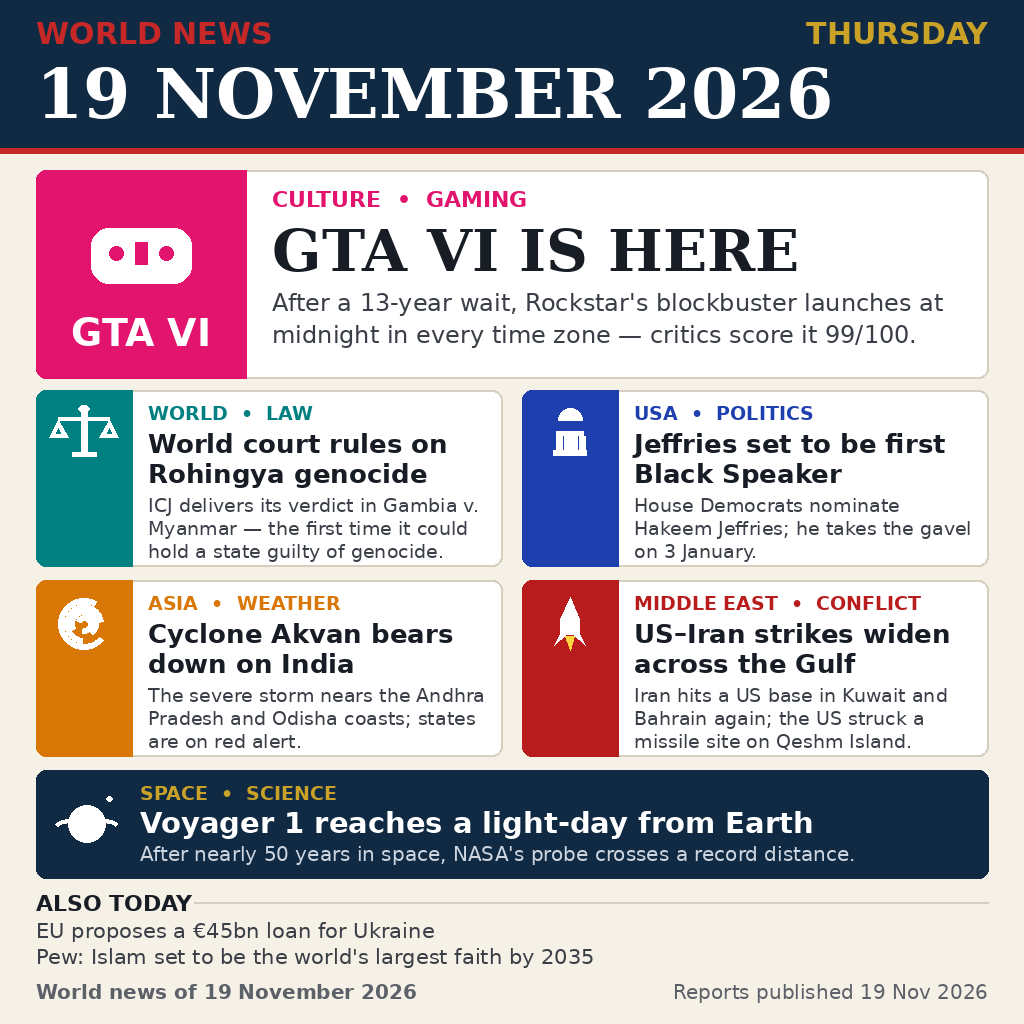
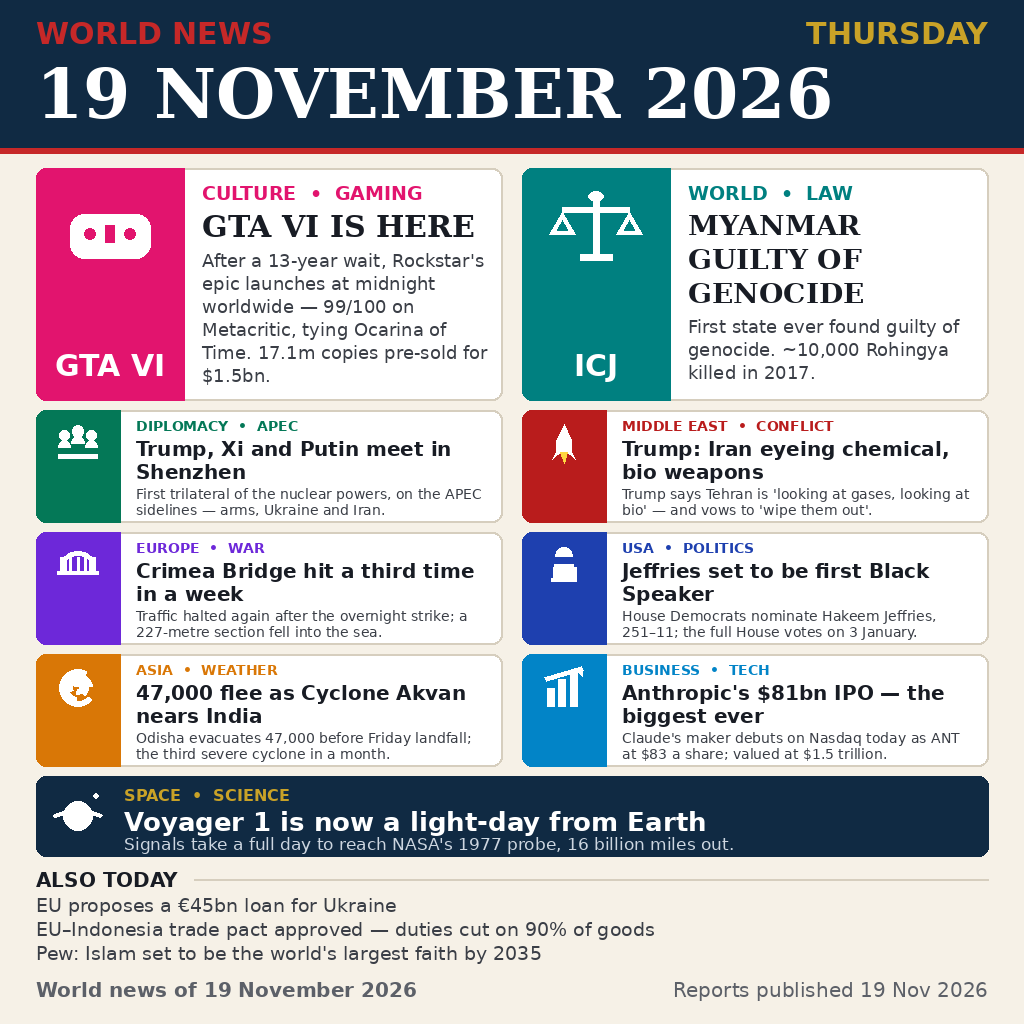
Poster v2: ICJ Myanmar genocide verdict + 12 stories

diff --git a/build_poster.py b/build_poster.py
@@ -1,7 +1,10 @@
 #!/usr/bin/env python3
-"""Build the 19 November 2026 world-news poster (entry.png, 1024x1024).
+"""Build the 19 November 2026 world-news poster v2 (entry.png, 1024x1024).
 
-Drawn programmatically with PIL so every word is crisp, real text.
+Premium newspaper front page, drawn programmatically with PIL so every
+word is crisp, real text. Two lead stories (GTA VI + ICJ verdict), a
+2x3 story grid, a Voyager band and an ALSO TODAY strip.
+
 Run:  python3 build_poster.py   ->  writes entry.png next to this script.
 """
 import os
@@ -24,15 +27,25 @@ BORDER = (214, 206, 190)
 
 PINK = (226, 20, 110)      # GTA VI
 TEAL = (0, 128, 128)       # ICJ
+EMERALD = (4, 120, 87)     # Summit
+DRED = (185, 28, 28)       # US-Iran
+PURPLE = (109, 40, 217)    # Crimea Bridge
 DBLUE = (30, 64, 175)      # Jeffries / US politics
 ORANGE = (217, 119, 6)     # Cyclone
-DRED = (185, 28, 28)       # US-Iran
-PURPLE = (109, 40, 217)    # Voyager
+SKY = (2, 132, 199)        # Anthropic IPO
 
 FB = "/usr/share/fonts/truetype/dejavu/DejaVuSans-Bold.ttf"
 FR = "/usr/share/fonts/truetype/dejavu/DejaVuSans.ttf"
 SERIF = "/usr/share/fonts/truetype/dejavu/DejaVuSerif-Bold.ttf"
 RED = (198, 40, 40)
+
+# ---------------------------------------------------------------- ICJ verdict
+# Verdict read 19 Nov 2026 (~16:00-17:30 WIB): court found Myanmar committed
+# genocide against the Rohingya — first state ever found guilty (Al Jazeera
+# breaking; BBC/TBS live blog: ~10,000 violently killed, 815,000 targeted).
+ICJ_HEAD = "MYANMAR GUILTY OF GENOCIDE"
+ICJ_DECK = ("First state ever found guilty of genocide. "
+            "~10,000 Rohingya killed in 2017.")
 
 
 def font(path, size):
@@ -124,6 +137,44 @@ def icon_planet(d, x, y, s, col):
     d.ellipse([x + s * 0.78, y + s * 0.10, x + s * 0.86, y + s * 0.18], fill=WHITE)
 
 
+def icon_summit(d, x, y, s, col):
+    # three leaders at a table: heads + shoulders + table line
+    for i, fx in enumerate((0.20, 0.50, 0.80)):
+        cx = x + s * fx
+        cy = y + s * (0.30 if i != 1 else 0.22)
+        r = s * (0.11 if i != 1 else 0.13)
+        d.ellipse([cx - r, cy - r, cx + r, cy + r], fill=WHITE)
+        d.pieslice([cx - s * 0.14, cy + s * 0.12, cx + s * 0.14,
+                    cy + s * 0.44], 180, 360, fill=WHITE)
+    d.rectangle([x + s * 0.06, y + s * 0.74, x + s * 0.94, y + s * 0.82],
+                fill=WHITE)
+
+
+def icon_bridge(d, x, y, s, col):
+    # suspension bridge: deck, arch, pillars, suspenders
+    d.rectangle([x + s * 0.04, y + s * 0.62, x + s * 0.96, y + s * 0.70],
+                fill=WHITE)
+    d.arc([x + s * 0.10, y + s * 0.18, x + s * 0.90, y + s * 0.86],
+          start=180, end=360, fill=WHITE, width=5)
+    for px in (x + s * 0.16, x + s * 0.84):
+        d.rectangle([px - 3, y + s * 0.30, px + 3, y + s * 0.66], fill=WHITE)
+    for fx in (0.32, 0.50, 0.68):
+        d.line([x + s * fx, y + s * 0.30, x + s * fx, y + s * 0.62],
+               fill=WHITE, width=3)
+
+
+def icon_chart(d, x, y, s, col):
+    # ascending bars + trend arrow
+    bars = [(0.12, 0.42), (0.38, 0.62), (0.64, 0.82)]
+    for fx, fh in bars:
+        d.rectangle([x + s * fx, y + s * (0.92 - fh), x + s * (fx + 0.16),
+                     y + s * 0.92], fill=WHITE)
+    d.line([x + s * 0.08, y + s * 0.30, x + s * 0.92, y + s * 0.06],
+           fill=WHITE, width=5)
+    d.polygon([(x + s * 0.92, y + s * 0.06), (x + s * 0.74, y + s * 0.06),
+               (x + s * 0.92, y + s * 0.24)], fill=WHITE)
+
+
 img = Image.new("RGB", (W, H), IVORY)
 d = ImageDraw.Draw(img)
 
@@ -137,98 +188,120 @@ d.text((MARGIN, 54), "19 NOVEMBER 2026", font=f_date, fill=WHITE)
 d.text((W - MARGIN - d.textlength("THURSDAY", font=f_kicker), 16),
        "THURSDAY", font=f_kicker, fill=GOLD)
 
-# ---------- lead story: GTA VI ----------
-lead_y, lead_h = 170, 208
-d.rounded_rectangle([MARGIN, lead_y, W - MARGIN, lead_y + lead_h], radius=10,
-                    fill=CARD, outline=BORDER, width=2)
-# pink art block on the left
-d.rounded_rectangle([MARGIN, lead_y, MARGIN + 210, lead_y + lead_h], radius=10,
-                    fill=PINK)
-d.rounded_rectangle([MARGIN + 150, lead_y, MARGIN + 210, lead_y + lead_h],
-                    radius=0, fill=PINK)  # square off the right edge of the block
-icon_controller(d, MARGIN + 55, lead_y + 28, 100, PINK)
-gta_label = "GTA VI"
-d.text((MARGIN + (210 - d.textlength(gta_label, font=font(FB, 38))) / 2,
-        lead_y + 140), gta_label, font=font(FB, 38), fill=WHITE)
-lx = MARGIN + 236
-f_tag = font(FB, 22)
-d.text((lx, lead_y + 16), "CULTURE  •  GAMING", font=f_tag, fill=PINK)
-d.text((lx, lead_y + 46), "GTA VI IS HERE", font=font(SERIF, 58), fill=INK)
-deck = ("After a 13-year wait, Rockstar's blockbuster launches at "
-        "midnight in every time zone — critics score it 99/100.")
-f_deck = font(FR, 24)
-y = draw_lines(d, wrap(d, deck, f_deck, W - MARGIN - lx - 24),
-               lx, lead_y + 118, f_deck, (58, 62, 70), 32)
+# ---------- lead row: two heroes ----------
+def hero(x, y, w, h, col, icon, label, tag, head, deck, head_size):
+    d.rounded_rectangle([x, y, x + w, y + h], radius=10,
+                        fill=CARD, outline=BORDER, width=2)
+    bw = 148  # art block width
+    d.rounded_rectangle([x, y, x + bw, y + h], radius=10, fill=col)
+    d.rounded_rectangle([x + bw - 40, y, x + bw, y + h], radius=0, fill=col)
+    icon(d, x + 34, y + 22, 80, col)
+    lab = label
+    lf = font(FB, 30)
+    d.text((x + (bw - d.textlength(lab, font=lf)) / 2, y + h - 52),
+           lab, font=lf, fill=WHITE)
+    tx = x + bw + 18
+    tw = x + w - tx - 14
+    d.text((tx, y + 14), tag, font=font(FB, 19), fill=col)
+    f_head = font(SERIF, head_size)
+    hy = draw_lines(d, wrap(d, head, f_head, tw), tx, y + 40, f_head, INK,
+                    head_size + 6)
+    f_deck = font(FR, 18)
+    draw_lines(d, wrap(d, deck, f_deck, tw), tx, hy + 6, f_deck,
+               (58, 62, 70), 23)
 
-# ---------- story grid (2 x 2) ----------
+hero_y, hero_h = 168, 232
+hero_w = (W - 2 * MARGIN - 20) // 2
+hero(MARGIN, hero_y, hero_w, hero_h, PINK, icon_controller, "GTA VI",
+     "CULTURE  •  GAMING", "GTA VI IS HERE",
+     "After a 13-year wait, Rockstar's epic launches at midnight worldwide "
+     "— 99/100 on Metacritic, tying Ocarina of Time. 17.1m copies pre-sold "
+     "for $1.5bn.",
+     30)
+hero(MARGIN + hero_w + 20, hero_y, hero_w, hero_h, TEAL, icon_scales, "ICJ",
+     "WORLD  •  LAW", ICJ_HEAD, ICJ_DECK, 28)
+
+# ---------- story grid (2 x 3) ----------
 stories = [
-    ("WORLD  •  LAW", TEAL, icon_scales,
-     "World court rules on Rohingya genocide",
-     "ICJ delivers its verdict in Gambia v. Myanmar — the first "
-     "time it could hold a state guilty of genocide."),
+    ("DIPLOMACY  •  APEC", EMERALD, icon_summit,
+     "Trump, Xi and Putin meet in Shenzhen",
+     "First trilateral of the nuclear powers, on the APEC sidelines — arms, "
+     "Ukraine and Iran."),
+    ("MIDDLE EAST  •  CONFLICT", DRED, icon_rocket,
+     "Trump: Iran eyeing chemical, bio weapons",
+     "Trump says Tehran is 'looking at gases, looking at bio' — and vows to "
+     "'wipe them out'."),
+    ("EUROPE  •  WAR", PURPLE, icon_bridge,
+     "Crimea Bridge hit a third time in a week",
+     "Traffic halted again after the overnight strike; a 227-metre section "
+     "fell into the sea."),
     ("USA  •  POLITICS", DBLUE, icon_capitol,
      "Jeffries set to be first Black Speaker",
-     "House Democrats nominate Hakeem Jeffries; he takes the gavel "
+     "House Democrats nominate Hakeem Jeffries, 251–11; the full House votes "
      "on 3 January."),
     ("ASIA  •  WEATHER", ORANGE, icon_cyclone,
-     "Cyclone Akvan bears down on India",
-     "The severe storm nears the Andhra Pradesh and Odisha coasts; "
-     "states are on red alert."),
-    ("MIDDLE EAST  •  CONFLICT", DRED, icon_rocket,
-     "US–Iran strikes widen across the Gulf",
-     "Iran hits a US base in Kuwait and Bahrain again; the US struck "
-     "a missile site on Qeshm Island."),
+     "47,000 flee as Cyclone Akvan nears India",
+     "Odisha evacuates 47,000 before Friday landfall; the third severe "
+     "cyclone in a month."),
+    ("BUSINESS  •  TECH", SKY, icon_chart,
+     "Anthropic's $81bn IPO — the biggest ever",
+     "Claude's maker debuts on Nasdaq today as ANT at $83 a share; valued "
+     "at $1.5 trillion."),
 ]
 col_w = (W - 2 * MARGIN - 20) // 2
-row_h, row_gap = 176, 14
-grid_y0 = 390
+row_h, row_gap = 112, 10
+grid_y0 = 410
 for i, (tag, col, icon, head, body) in enumerate(stories):
     cx = MARGIN + (i % 2) * (col_w + 20)
     cy = grid_y0 + (i // 2) * (row_h + row_gap)
     d.rounded_rectangle([cx, cy, cx + col_w, cy + row_h], radius=10,
                         fill=CARD, outline=BORDER, width=2)
     # colour chip with icon
-    d.rounded_rectangle([cx, cy, cx + 96, cy + row_h], radius=10, fill=col)
-    d.rounded_rectangle([cx + 60, cy, cx + 96, cy + row_h], radius=0, fill=col)
-    icon(d, cx + 18, cy + 14, 60, col)
-    tx = cx + 112
-    d.text((tx, cy + 12), tag, font=font(FB, 19), fill=col)
-    f_head = font(FB, 26)
-    lines = wrap(d, head, f_head, col_w - 128)
-    y = draw_lines(d, lines, tx, cy + 38, f_head, INK, 30)
-    f_body = font(FR, 19)
-    draw_lines(d, wrap(d, body, f_body, col_w - 128), tx, y + 6, f_body,
-               (58, 62, 70), 23)
+    d.rounded_rectangle([cx, cy, cx + 84, cy + row_h], radius=10, fill=col)
+    d.rounded_rectangle([cx + 54, cy, cx + 84, cy + row_h], radius=0, fill=col)
+    icon(d, cx + 20, cy + 12, 44, col)
+    tx = cx + 100
+    d.text((tx, cy + 8), tag, font=font(FB, 14), fill=col)
+    f_head = font(FB, 20)
+    y = draw_lines(d, wrap(d, head, f_head, col_w - 116), tx, cy + 27,
+                   f_head, INK, 23)
+    f_body = font(FR, 14)
+    draw_lines(d, wrap(d, body, f_body, col_w - 116), tx, y + 3, f_body,
+               (58, 62, 70), 16)
 
 # ---------- Voyager band (full width) ----------
-voy_y, voy_h = 770, 108
+voy_y, voy_h = 776, 80
 d.rounded_rectangle([MARGIN, voy_y, W - MARGIN, voy_y + voy_h], radius=10,
                     fill=NAVY)
-icon_planet(d, MARGIN + 16, voy_y + 19, 70, NAVY)
-d.text((MARGIN + 104, voy_y + 12), "SPACE  •  SCIENCE", font=font(FB, 19),
+icon_planet(d, MARGIN + 14, voy_y + 12, 56, NAVY)
+d.text((MARGIN + 88, voy_y + 10), "SPACE  •  SCIENCE", font=font(FB, 16),
        fill=GOLD)
-d.text((MARGIN + 104, voy_y + 36), "Voyager 1 reaches a light-day from Earth",
-       font=font(FB, 29), fill=WHITE)
-d.text((MARGIN + 104, voy_y + 72),
-       "After nearly 50 years in space, NASA's probe crosses a record "
-       "distance.",
-       font=font(FR, 20), fill=(205, 214, 224))
+d.text((MARGIN + 88, voy_y + 30), "Voyager 1 is now a light-day from Earth",
+       font=font(FB, 26), fill=WHITE)
+d.text((MARGIN + 88, voy_y + 58),
+       "Signals take a full day to reach NASA's 1977 probe, 16 billion "
+       "miles out.",
+       font=font(FR, 17), fill=(205, 214, 224))
 
 # ---------- also today ----------
-also_y = 890
-d.text((MARGIN, also_y), "ALSO TODAY", font=font(FB, 22), fill=INK)
-d.line([MARGIN + 158, also_y + 12, W - MARGIN, also_y + 12], fill=BORDER, width=2)
-d.text((MARGIN, also_y + 28), "EU proposes a €45bn loan for Ukraine",
-       font=font(FR, 21), fill=(58, 62, 70))
-d.text((MARGIN, also_y + 54),
-       "Pew: Islam set to be the world's largest faith by 2035",
-       font=font(FR, 21), fill=(58, 62, 70))
+also_y = 868
+d.text((MARGIN, also_y), "ALSO TODAY", font=font(FB, 20), fill=INK)
+d.line([MARGIN + 158, also_y + 11, W - MARGIN, also_y + 11], fill=BORDER, width=2)
+also_items = [
+    "EU proposes a €45bn loan for Ukraine",
+    "EU–Indonesia trade pact approved — duties cut on 90% of goods",
+    "Pew: Islam set to be the world's largest faith by 2035",
+]
+y = also_y + 26
+for item in also_items:
+    d.text((MARGIN, y), item, font=font(FR, 19), fill=(58, 62, 70))
+    y += 24
 
 # ---------- footer ----------
-d.text((MARGIN, 980), "World news of 19 November 2026",
+d.text((MARGIN, 978), "World news of 19 November 2026",
        font=font(FB, 20), fill=GREY)
 d.text((W - MARGIN - d.textlength("Reports published 19 Nov 2026",
-                                  font=font(FR, 20)), 980),
+                                  font=font(FR, 20)), 978),
        "Reports published 19 Nov 2026",
        font=font(FR, 20), fill=GREY)
 

diff --git a/README.md b/README.md
@@ -4,22 +4,25 @@
 [![rank](https://make.fun/badge/news-image-20261119/zokay23/news-image-20261119/rank.svg)](https://make.fun/bounty/news-image-20261119/leaderboard?utm_source=github&utm_medium=readme&utm_campaign=news-image-20261119)
 [![reward](https://make.fun/badge/news-image-20261119/zokay23/news-image-20261119/reward.svg)](https://make.fun/bounty/news-image-20261119?utm_source=github&utm_medium=readme&utm_campaign=news-image-20261119)
 
-A one-image summary of Thursday 19 November 2026's world news, built for the make.fun `news-image-20261119` bounty. A premium newspaper front page (1024×1024 PNG) with the masthead **WORLD NEWS — 19 NOVEMBER 2026** and six stories from that day, chosen for consequence and breadth across regions and fields:
+A one-image summary of Thursday 19 November 2026's world news, built for the make.fun `news-image-20261119` bounty. A premium newspaper front page (1024×1024 PNG) with the masthead **WORLD NEWS — 19 NOVEMBER 2026** and twelve stories from that day, chosen for consequence and breadth across regions and fields:
 
-1. **GTA VI IS HERE** (hero, culture/gaming) — Rockstar's blockbuster launches at midnight in every time zone after a 13-year wait; critics score it 99/100.
-2. **World court rules on Rohingya genocide** (world/law) — the ICJ delivers its verdict in Gambia v. Myanmar, the first time it could hold a state guilty of genocide.
-3. **Jeffries set to be first Black Speaker** (USA/politics) — House Democrats nominate Hakeem Jeffries; he takes the gavel on 3 January.
-4. **Cyclone Akvan bears down on India** (Asia/weather) — the severe storm nears the Andhra Pradesh and Odisha coasts; states on red alert.
-5. **US–Iran strikes widen across the Gulf** (Middle East/conflict) — Iran hits a US base in Kuwait and Bahrain again; the US struck a missile site on Qeshm Island.
-6. **Voyager 1 reaches a light-day from Earth** (space/science) — after nearly 50 years in space, NASA's probe crosses a record distance.
+1. **GTA VI IS HERE** (hero, culture/gaming) — Rockstar's blockbuster launches at midnight in every time zone after a 13-year wait; critics score it 99/100, tying Ocarina of Time; 17.1m copies pre-sold for $1.5bn.
+2. **MYANMAR GUILTY OF GENOCIDE** (hero, world/law) — the ICJ rules Myanmar committed genocide against the Rohingya: the first state ever found guilty of genocide; ~10,000 killed in 2017.
+3. **Trump, Xi and Putin meet in Shenzhen** (diplomacy/APEC) — the first trilateral of the nuclear powers, on the APEC sidelines: arms, Ukraine and Iran.
+4. **Trump: Iran eyeing chemical, bio weapons** (Middle East/conflict) — Trump says Tehran is "looking at gases, looking at bio" and vows to "wipe them out".
+5. **Crimea Bridge hit a third time in a week** (Europe/war) — traffic halted after the overnight strike; a 227-metre section fell into the sea.
+6. **Jeffries set to be first Black Speaker** (USA/politics) — House Democrats nominate Hakeem Jeffries, 251–11; the full House votes on 3 January.
+7. **47,000 flee as Cyclone Akvan nears India** (Asia/weather) — Odisha evacuates 47,000 before Friday landfall; the third severe cyclone in a month.
+8. **Anthropic's $81bn IPO — the biggest ever** (business/tech) — Claude's maker debuts on Nasdaq today as ANT at $83 a share; valued at $1.5 trillion.
+9. **Voyager 1 is now a light-day from Earth** (space/science) — signals take a full day to reach NASA's 1977 probe, 16 billion miles out.
 
-Plus an "ALSO TODAY" strip: the EU's proposed €45bn loan for Ukraine, and the Pew report that Islam is set to become the world's largest faith by 2035. All stories were reported on 19 November 2026.
+Plus an "ALSO TODAY" strip: the EU's proposed €45bn loan for Ukraine, the EU–Indonesia trade pact approved (duties cut on 90% of goods), and the Pew report that Islam is set to become the world's largest faith by 2035. All stories were reported on 19 November 2026 (the Jeffries nomination vote and the Voyager milestone were reported across that day's news cycle).
 
 ## Run it
 
 ```sh
 mkdir -p out && MAKEFUN_OUTPUT_DIR=out python3 main.py
-# out/entry.png — 1024x1024 PNG, 136,021 bytes
+# out/entry.png — 1024x1024 PNG, 154,498 bytes
 ```
 
 ## How the program works
